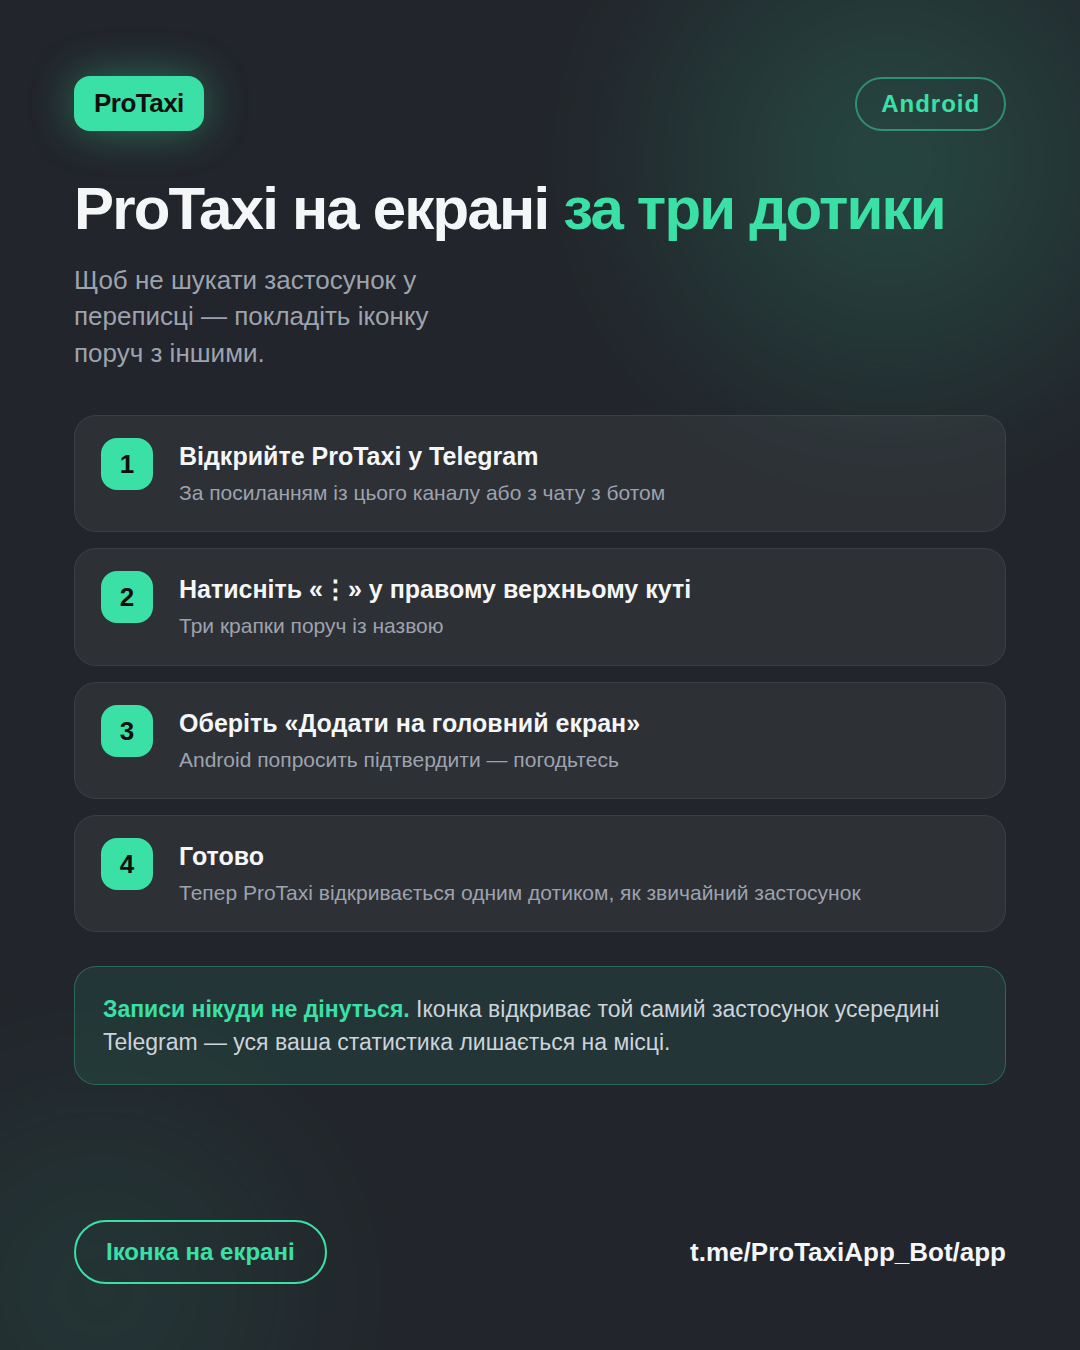
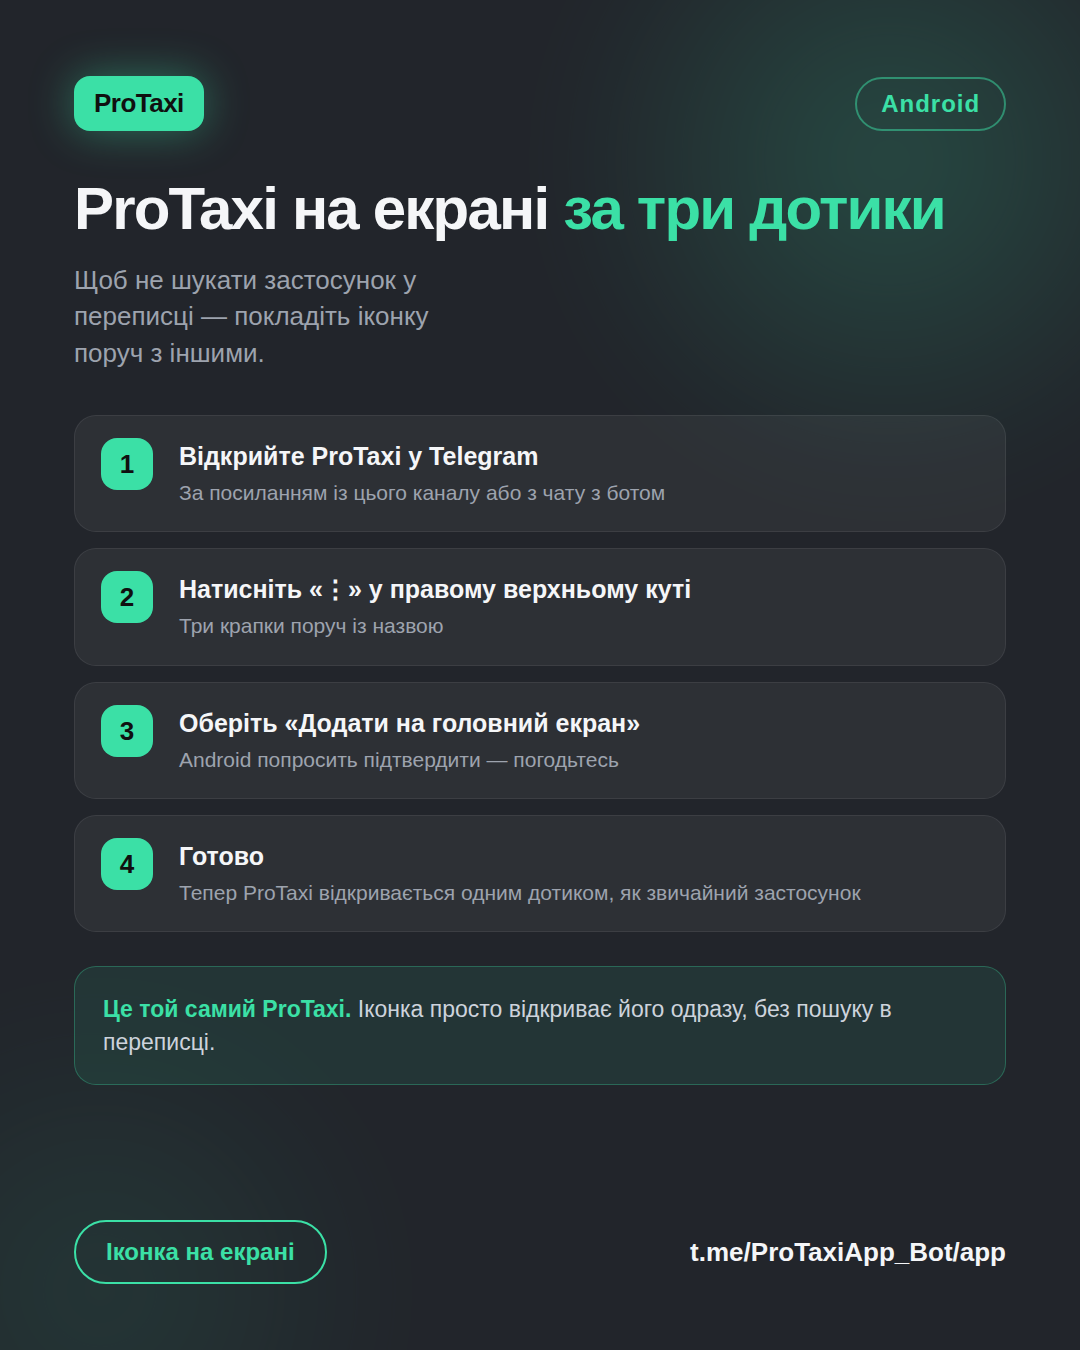
1.38: не згадувати про втрату даних
Прибрано обіцянки «записи нікуди не дінуться» — на екрані підписки,
під сховищем у налаштуваннях, у дописах і на картинках-інструкціях.
Водій не тримає в голові, що щось може зникнути; обіцянка, що не
зникне, сама наводить його на цю думку.

Попередження в діагностиці лишилось: воно показується тільки тоді,
коли сховище справді не працює, і каже, що робити.

Changed region(s): [[0.0917, 0.7156, 0.8556, 0.7778]]

diff --git a/index.html b/index.html
@@ -842,7 +842,6 @@ html.map-full .tabbar{display:none}
     <div class="sub-table" id="sub-table"></div>
     <button class="btn btn-primary sub-cta" id="sub-go">Продовжити</button>
     <p class="sub-fine" id="sub-hint"></p>
-    <p class="sub-fine">Записи зберігаються незалежно від стану підписки. Резервну копію у файл можна вивантажити будь-коли.</p>
   </section>
 
   <section class="screen adm" id="screen-admin">
@@ -1320,7 +1319,7 @@ html.map-full .tabbar{display:none}
 </nav>
 
 <script>
-const APP_VER='1.37';
+const APP_VER='1.38';
 /* Заставку прибираємо з DOM після показу — щоб напевно не перехоплювала дотики,
    навіть якщо анімація чомусь не відпрацювала. */
 setTimeout(function(){var s=document.getElementById('splash');if(s&&s.parentNode)s.parentNode.removeChild(s);},1800);
@@ -5964,9 +5963,9 @@ function renderAll(){renderShift();setChips();renderStats();renderTank();renderF
   dayCursor=todayStr();
   $('pick-day').value=dayCursor;
   const real=store.names.filter(n=>n!=='memory');
-  $('storage-note').textContent=real.length
-    ? 'Дані пишуться одразу в кілька сховищ ('+real.join(', ')+') — відкрита сесія нікуди не дінеться.'
-    : 'Увага: тимчасове сховище. Зробіть копію у файл.';
+  /* Поки сховище працює — мовчимо. Обіцянка «нічого не зникне» сама наводить
+     людину на думку, що щось може зникнути; озиваємось лише коли справді біда. */
+  $('storage-note').textContent=real.length?'':'Увага: тимчасове сховище. Зробіть копію у файл.';
   if(!real.length)toast('Тимчасовий режим: зроби копію у файл');
   $('save-state').textContent=data.savedAt
     ? 'Останнє збереження: '+fmtDate(dateOf(data.savedAt))+' о '+hms(data.savedAt)+' · версія '+APP_VER

diff --git a/CLAUDE.md b/CLAUDE.md
@@ -178,6 +178,13 @@
   сховища»: інакше це не діагностується взагалі.
 - **Плашки «все гаразд» не показуємо.** Діагностика сховища мовчить, поки все
   працює, і озивається тільки коли записи справді не зберігаються.
+- **Про втрату даних не згадуємо ніде — ні в застосунку, ні в дописах, ні на
+  картинках.** Жодних «записи нікуди не дінуться», «статистика лишається на
+  місці», «спершу зробіть копію». Водій не тримає в голові, що щось може
+  зникнути; обіцянка, що не зникне, сама наводить його на цю думку. Це
+  тривога розробника, а не питання користувача. Виняток один: діагностика,
+  коли сховище **справді** не працює — там попередження стосується того, що
+  вже сталося, і каже, що робити.
 - **Клавіатура ховає нижню панель.** Фокус у будь-якому `input` вішає на `<html>`
   клас `kbd`, панель їде вниз, поле саме скролиться в центр. Без цього поле
   опиняється під панеллю, і не видно, що набираєш.
